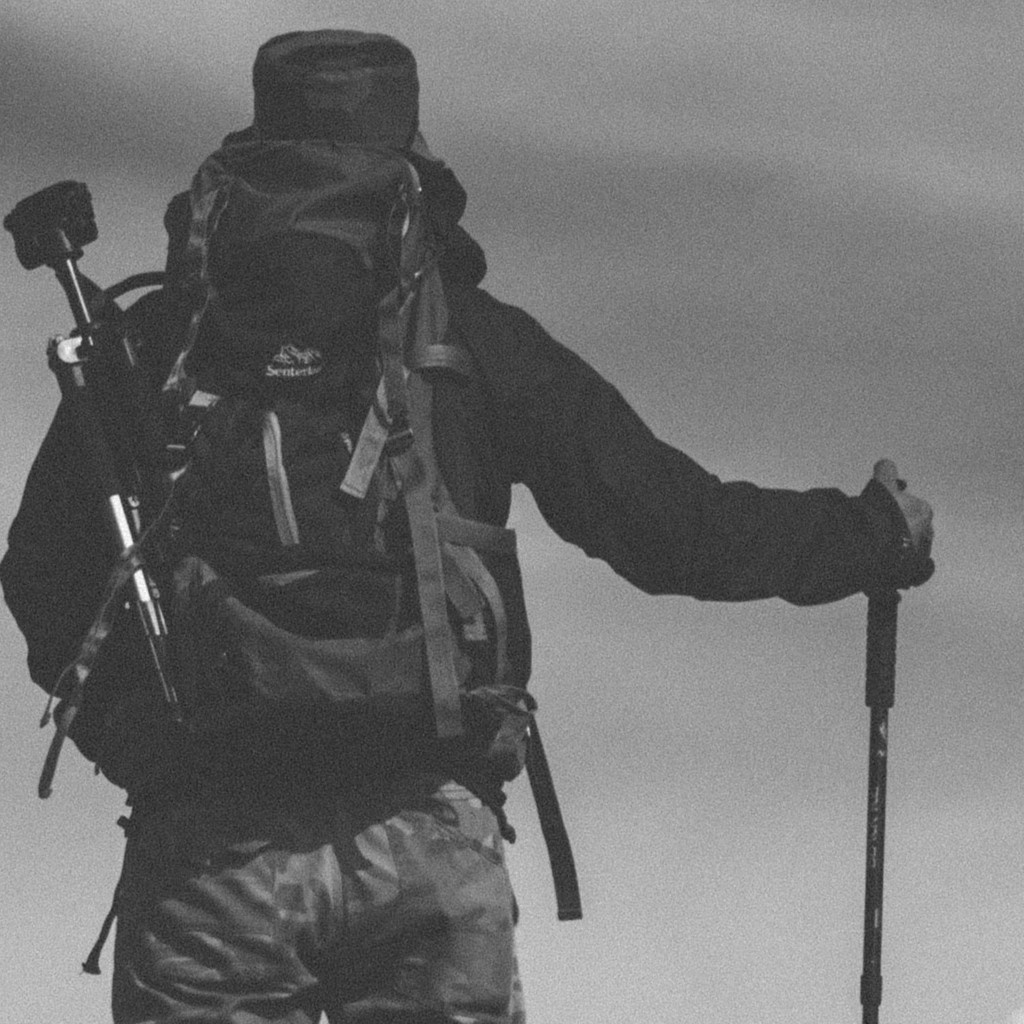
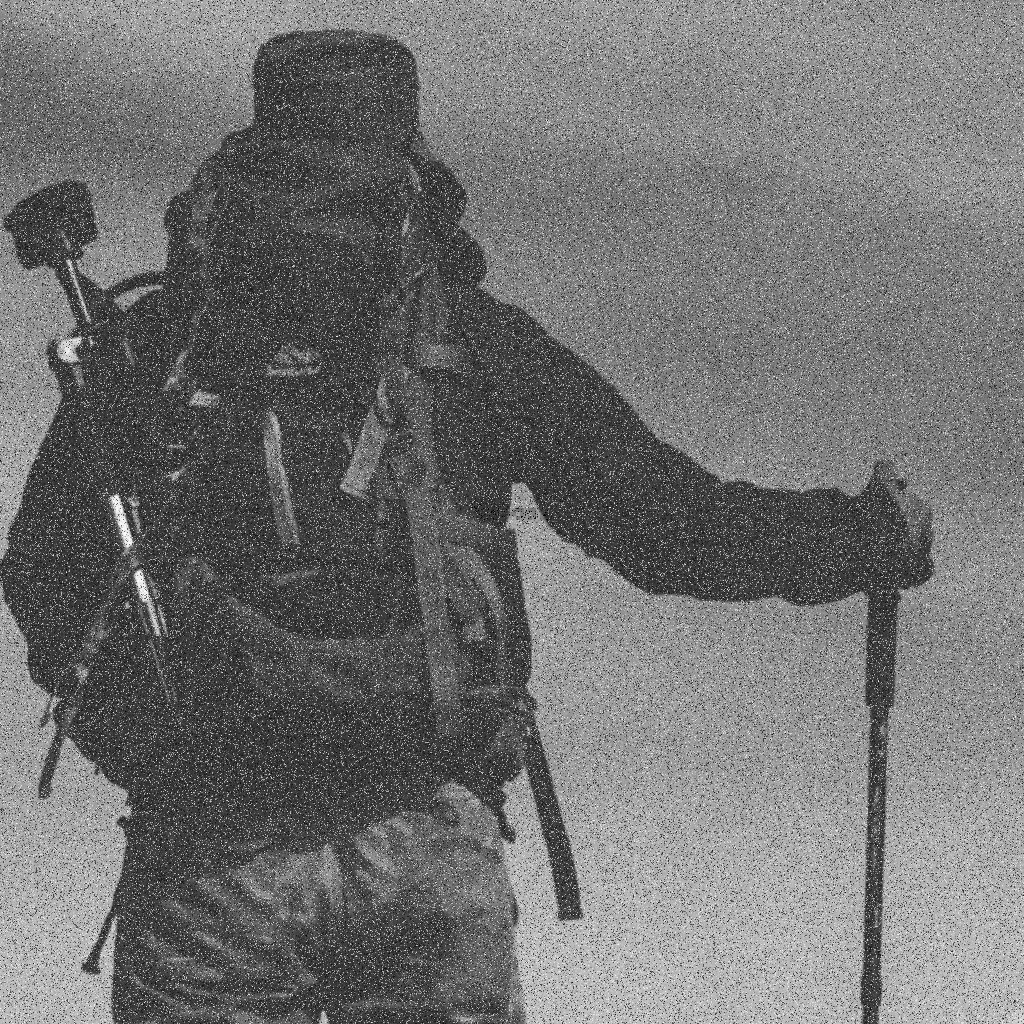
added dwt level 2

Changed region(s): [[0.0, 0.0, 1.0, 1.0]]

diff --git a/gui/app_new.py b/gui/app_new.py
@@ -17,7 +17,9 @@ style.theme_use('vista')# ('winnative', 'clam', 'alt', 'default', 'classic', 'vi
 
 # global variables
 result_LL,LL,LH,HL,HH,h,hh,w,ww,manipulated,xoff,yoff =None,None,None,None,None,None,None,None,None,None,None,None
+result_LL2,LL2,LH2,HL2,HH2,h2,hh2,w2,ww2,xoff2,yoff2 =None,None,None,None,None,None,None,None,None,None,None
 
+dwt_level = 2
 pos_list = ['Center','Top Left','Top Right','Bottom Left','Bottom Right']
 noise_list = ['Gaussian','Salt & Pepper']
 
@@ -161,38 +163,73 @@ third_frame.grid(row=2,column=0,pady=5)
 
 def add_watermark():
     global result_LL,LL,LH,HL,HH,h,hh,w,ww,manipulated,xoff,yoff
+    global result_LL2,LL2,LH2,HL2,HH2,h2,hh2,w2,ww2,xoff2,yoff2
+    
     A = cv2.imread(cover_image_path.get())
     host = cv2.cvtColor(A, cv2.COLOR_BGR2GRAY)
     LL, (LH, HL, HH) = dwt2(host, 'haar')
     h, w = LL.shape
+    if(dwt_level==2):
+        LL2, (LH2, HL2, HH2) = dwt2(LL, 'haar')
+        h2, w2 = LL2.shape
     
     B = cv2.imread(watermark_image_path.get())
     watermark = cv2.cvtColor(B, cv2.COLOR_BGR2GRAY)
     LL_w, (LH_w, HL_w, HH_w) = dwt2(watermark, 'haar')
     hh, ww = LL_w.shape
+    if(dwt_level==2):
+        LL_w2, (LH_w2, HL_w2, HH_w2) = dwt2(LL_w, 'haar')
+        hh2, ww2 = LL_w2.shape
     
     # pos_list = ['Center','Top Left','Top Right','Bottom Left','Bottom Right']
     if(pos_var.get() == 'Center'):
-        yoff = round((h-hh)/2)
-        xoff = round((w-ww)/2)
+        if(dwt_level == 1):
+            yoff = round((h-hh)/2)
+            xoff = round((w-ww)/2)
+        elif(dwt_level == 2):
+            yoff = round((h2-hh2)/2)
+            xoff = round((w2-ww2)/2)
     elif(pos_var.get() == 'Top Left'):
         yoff = 0
         xoff = 0
     elif(pos_var.get() == 'Top Right'):
         yoff = 0
-        xoff = w-ww
+        if(dwt_level == 1):
+            xoff = w-ww
+        elif(dwt_level == 2):
+            xoff = round(w2-ww2)
     elif(pos_var.get() == 'Bottom Left'):
-        yoff = h-hh
+        if(dwt_level == 1):
+            yoff = h-hh
+        elif(dwt_level == 2):
+            yoff = round(h2-hh2)
         xoff = 0
     elif(pos_var.get() == 'Bottom Right'):
-        yoff = h-hh
-        xoff = w-ww
+        if(dwt_level == 1):
+            yoff = h-hh
+            xoff = w-ww
+        elif(dwt_level == 2):
+            yoff = round(h2-hh2)
+            xoff = round(w2-ww2)
         
-    manipulated = LL_w * 0.98
+    if(dwt_level == 1):
+        manipulated = LL_w * 0.98
+    elif(dwt_level == 2):
+        manipulated = LL_w2 * 0.98
+
     result = LL.copy()
-    result[yoff:yoff+hh, xoff:xoff+ww] += manipulated
-    result_LL = idwt2((result,( LH, HL, HH)), 'haar')
-    cv2.imwrite('gui/watermarked.jpg', result_LL)
+    result2 = None
+
+    if(dwt_level == 1):
+        result[yoff:yoff+hh, xoff:xoff+ww] += manipulated
+        result_LL = idwt2((result,( LH, HL, HH)), 'haar')
+        cv2.imwrite('gui/watermarked.jpg', result_LL)
+    elif(dwt_level == 2):
+        result2 = LL2.copy()
+        result2[yoff:yoff+hh2, xoff:xoff+ww2] += manipulated
+        result_LL2 = idwt2((result2,( LH2, HL2, HH2)), 'haar')
+        result_LL =  idwt2((result_LL2,( LH, HL, HH)), 'haar')
+        cv2.imwrite('gui/watermarked.jpg', result_LL)
     upload_watermarked_image('gui/watermarked.jpg')
 
 def upload_watermarked_image(img_path):
@@ -207,9 +244,22 @@ def extract_watermark():
     I = cv2.imread('gui/watermarked.jpg', 1)
     I = cv2.cvtColor(I, cv2.COLOR_BGR2GRAY)
     wm_LL,( m_LH, wm_HL, m_HH) = dwt2(I, 'haar')
-    new_LL = wm_LL - LL
+    wm_LL2,new_LL,new_image,new_image2 = None,None,None,None
+    if(dwt_level == 2):
+        wm_LL2,( m_LH2, wm_HL2, m_HH2) = dwt2(wm_LL, 'haar')
+
+    if(dwt_level == 1):
+        new_LL = wm_LL - LL
+    elif(dwt_level == 2):
+        new_LL = wm_LL2 - LL2
+
     new_LL = new_LL / 0.98
-    new_image = idwt2((new_LL, (LH, HL, HH)), 'haar')
+    if(dwt_level == 1):
+        new_image = idwt2((new_LL, (LH, HL, HH)), 'haar')
+    elif(dwt_level == 2):
+        new_image2 = idwt2((new_LL, (LH2, HL2, HH2)), 'haar')
+        new_image = idwt2((new_image2, (LH, HL, HH)), 'haar')
+
     new_crop_image = new_image.copy()
     
     if pos_var.get() == 'Center':
@@ -231,13 +281,25 @@ def extract_watermark():
     recover_watermark_button.grid(column=3,row=0,padx=5,pady=5)
 
 def remove_watermark():
+    new_LL,wm_LL2,wm_LH2,wm_HL2,wm_HH2,new_image,new_image2 = None,None,None,None,None,None,None
     I = cv2.imread('gui/watermarked.jpg', 1)
     I = cv2.cvtColor(I, cv2.COLOR_BGR2GRAY)
-    wm_LL,( m_LH, wm_HL, m_HH) = dwt2(I, 'haar')
-    new_LL = wm_LL.copy()
-    new_LL[yoff:yoff+hh, xoff:xoff+ww] -= manipulated
-    new_LL = new_LL 
-    new_image = idwt2((new_LL, (LH, HL, HH)), 'haar')
+    wm_LL,( wm_LH, wm_HL, wm_HH) = dwt2(I, 'haar')
+    if(dwt_level == 2):
+        wm_LL2,( wm_LH2, wm_HL2, wm_HH2) = dwt2(wm_LL, 'haar')
+    
+    if(dwt_level == 1):
+        new_LL = wm_LL.copy()
+        new_LL[yoff:yoff+hh, xoff:xoff+ww] -= manipulated
+    elif(dwt_level == 2):
+        new_LL = wm_LL2.copy()
+        new_LL[yoff:yoff+hh2, xoff:xoff+ww2] -= manipulated
+ 
+    if(dwt_level == 1):
+        new_image = idwt2((new_LL, ( wm_LH, wm_HL, wm_HH)), 'haar')
+    if(dwt_level == 2):
+        new_image2 = idwt2((new_LL, (wm_LH2, wm_HL2, wm_HH2)), 'haar')
+        new_image = idwt2((new_image2, (wm_LH, wm_HL, wm_HH)), 'haar')
     cv2.imwrite('gui/extracted_cover.jpg', new_image)
     global recover_cover_icon
     recover_cover_icon = Image.open('gui/extracted_cover.jpg')
@@ -258,9 +320,9 @@ def add_noise():
     I = cv2.imread('gui/watermarked.jpg',1)
     sp = random_noise(I,mode=current_noise_type,seed=None,clip=True)
     sp = cv2.convertScaleAbs(sp, alpha=(255.0))
-    cv2.imwrite('gui/noised_image.jpg', sp)
+    cv2.imwrite('gui/watermarked.jpg', sp)
 
-    noised_image_icon = Image.open('gui/noised_image.jpg')
+    noised_image_icon = Image.open('gui/watermarked.jpg')
     noised_watermark = noised_image_icon.resize((280,280), Image.ANTIALIAS)
     noised_watermark =  ImageTk.PhotoImage(noised_watermark)
     noised_watermark_button = Button(third_frame,image=noised_watermark,borderwidth=1,relief=RIDGE,width=280,height=280)
